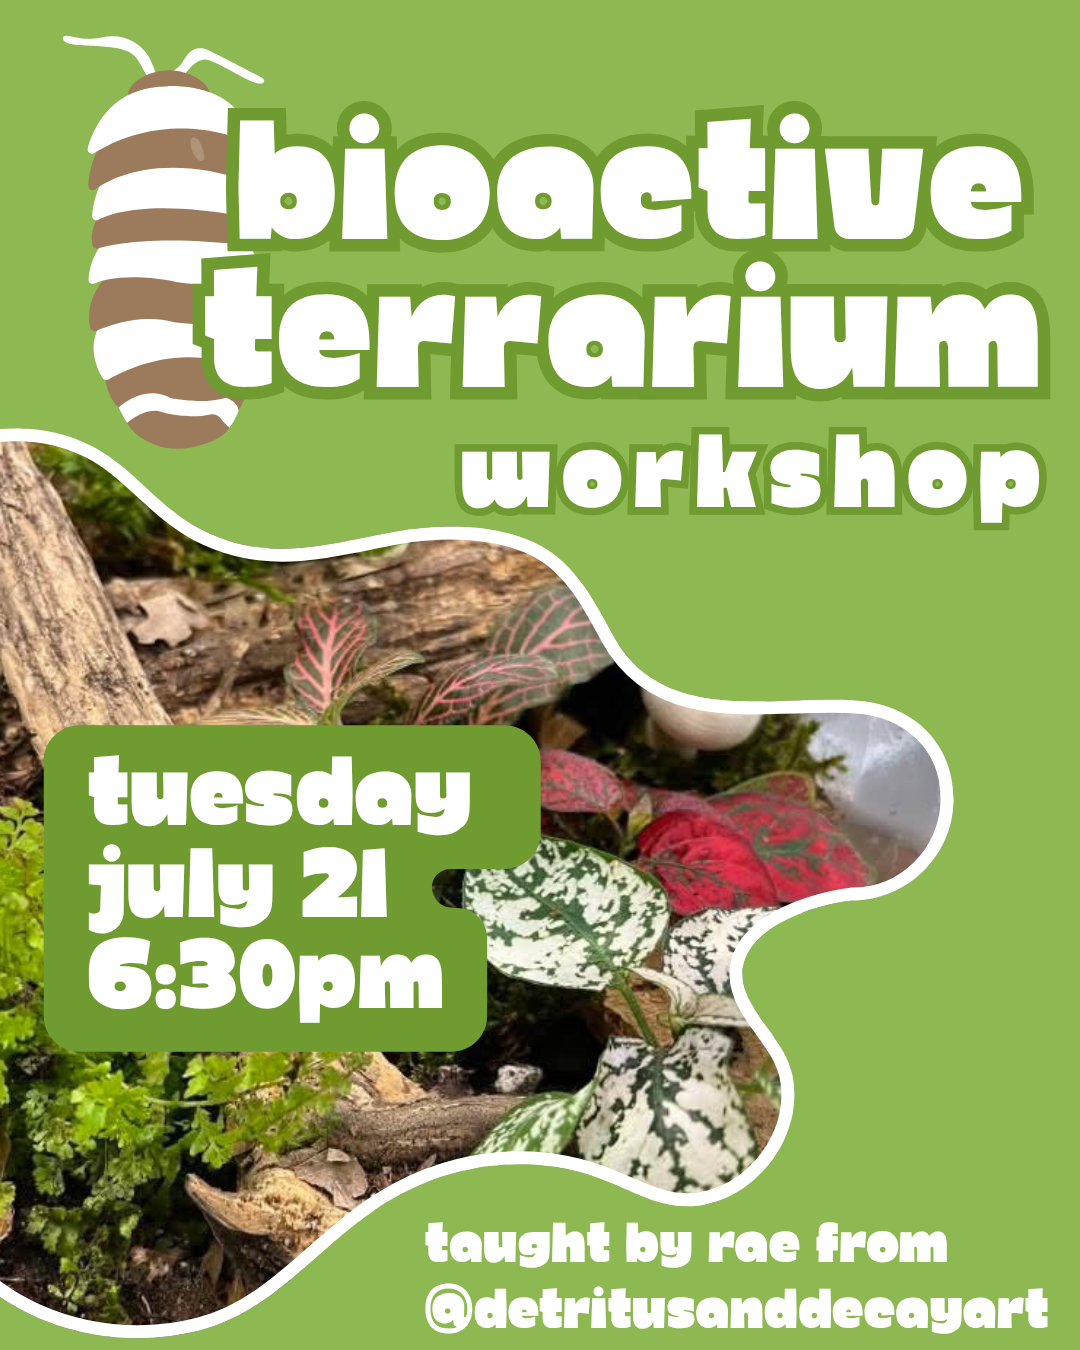
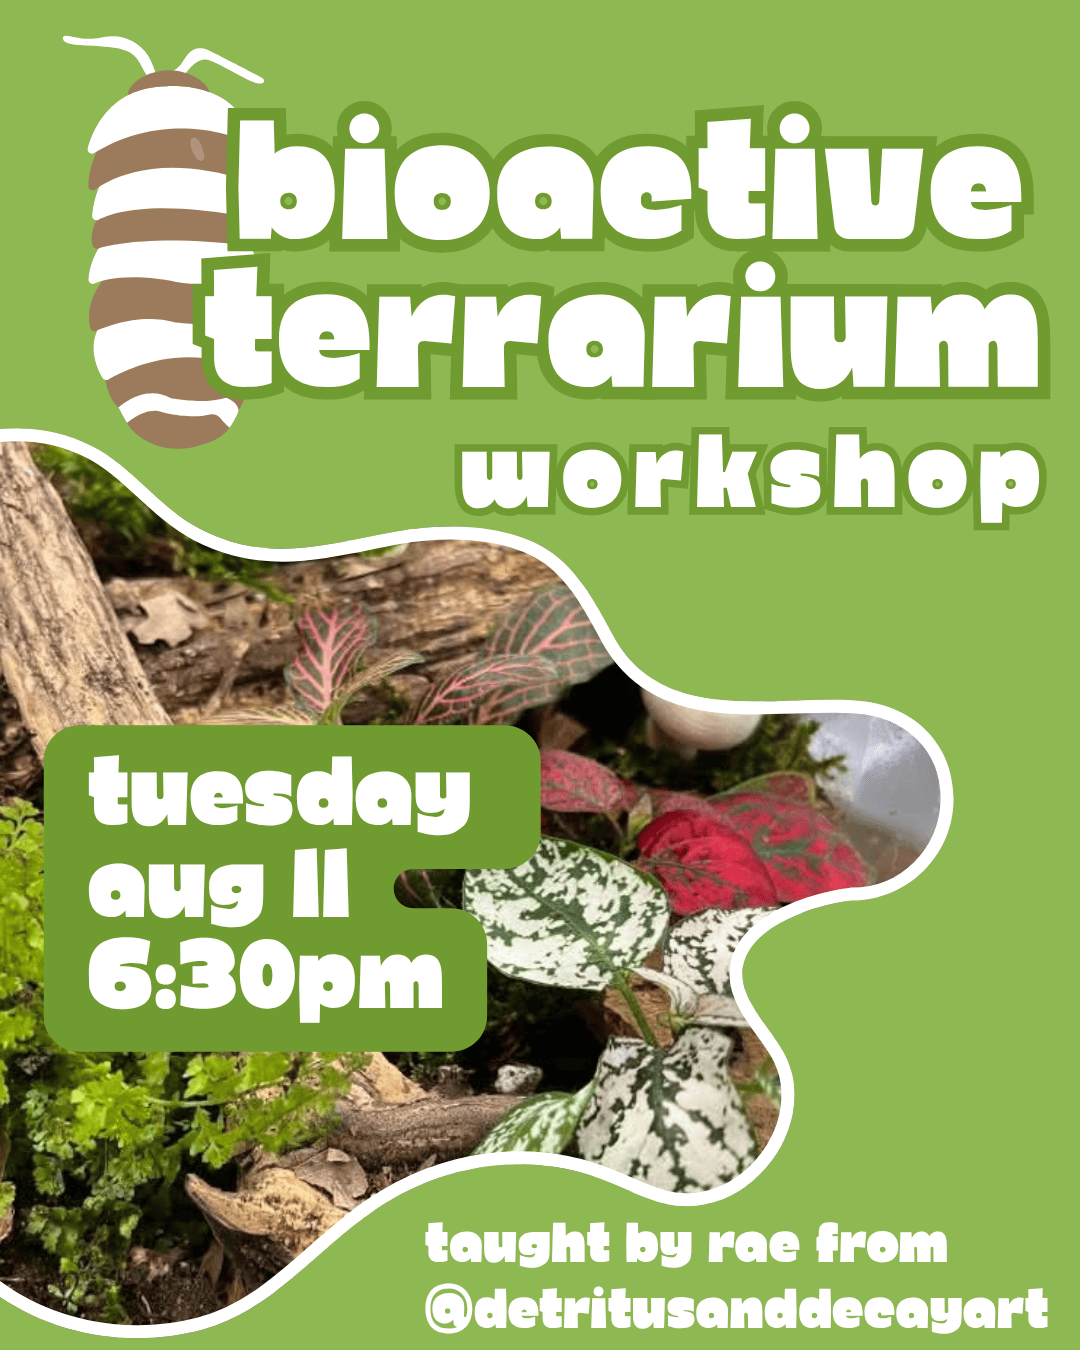
adds bioactive and prism, as well as new clipping swap

Changed region(s): [[0.0611, 0.6222, 0.4278, 0.7156]]

diff --git a/index.html b/index.html
@@ -13,7 +13,7 @@
     <header class="site-header">
       <nav>
         <ul>
-          <li><a href="#news">News</a></li>
+          <li><a href="#events">Events</a></li>
           <li><a href="#services">Services</a></li>
           <li><a href="#hoursAndLocation">Contact</a></li>
           <li><a href="http://perchplants.bigcartel.com">Perch Merch</a></li>
@@ -47,6 +47,119 @@
           </a>
         </div>
         <img src="./img/hats.jpg" alt="Perch hats" class="hatsNewsImage" />
+      </section>
+
+      <section id="events" aria-labelledby="eventsTitle">
+        <h2 id="eventsTitle" class="sectionHeader">Events at Perch</h2>
+        <div class="eventGroup">
+          <article class="event">
+            <div class="eventHeader">
+              <img src="./img/bioactive.png" alt="Bioactive Terrarium Workshop flyer" class="eventFlyer" />
+              <div class="eventTitle">
+                <h3>Bioactive Terrarium Workshop</h3>
+                <p class="eventDate">Tuesday 8/11 @ 6:30PM</p>
+              </div>
+            </div>
+            <div class="eventDescription">
+              <p class="eventDescriptionText">
+                Taught by Rae from <strong>Detritus &amp; Decay Art (<a href="https://www.instagram.com/detritusanddecayart">@detritusanddecayart</a>)</strong>. Build your own miniature tropical ecosystem with a clean-up crew of isopods &amp; springtails.
+              </p>
+              <div class="eventDescriptionText">
+                <p>In this workshop you will learn:</p>
+                <ul class="eventListText">
+                  <li>Techniques of soil layering</li>
+                  <li>Terrarium plant choice (2–3 plants provided)</li>
+                  <li>Watering methods</li>
+                  <li>Best placement for your vessel</li>
+                  <li>Plant care &amp; tips</li>
+                  <li>Springtail &amp; isopod care info</li>
+                </ul>
+              </div>
+              <p class="eventDescriptionText">
+                Use a provided glass container or bring your own closed glass container (around 1 gallon, with a lid, and can fit your hand inside).
+              </p>
+              <p class="eventDescriptionText">
+                Feel free to bring your own decor items such as crystals, stones, or figurines!
+              </p>
+              <div class="eventDescriptionText">
+                <p><strong>BYO Glass Vessel Option:</strong> $45</p>
+                <p><strong>All Materials Provided Option:</strong> $55</p>
+              </div>
+              <a href="https://buy.stripe.com/8x29AS6VB4bJeyUfzh9IQ0I">
+                <button class="signUpBtn">BYO Glass Vessel: $45</button>
+              </a>
+              <a href="https://buy.stripe.com/dRmfZg1Bh5fNcqMdr99IQ0H">
+                <button class="signUpBtn">All Materials Provided: $55</button>
+              </a>
+            </div>
+          </article>
+
+          <article class="event">
+            <div class="eventHeader">
+              <img src="./img/prism.png" alt="Prism Portrait Pop-up flyer" class="eventFlyer" />
+              <div class="eventTitle">
+                <h3>Prism Portrait Pop-up!</h3>
+                <p class="eventSubTitle"><em>Hosted by Prism Portal + Perch</em></p>
+                <p class="eventDate">Saturday 8/15 @ 6:00PM &amp; 8:00PM</p>
+                <p class="eventHeaderImportant">
+                  The event will be divided into two separate sessions.<br />
+                  Group 1: 6pm (limited to 4 people)<br />
+                  Group 2: 8pm (limited to 4–5 people)<br /><br />
+                  After you sign up, please e-mail <a href="mailto:hi@perchplants.com">hi@perchplants.com</a> to specify which time you prefer.
+                </p>
+              </div>
+            </div>
+            <div class="eventDescription">
+              <p class="eventDescriptionText">
+                <strong>What is a Prism Portrait?</strong><br />
+                It is an intuitive portrait experience where we combine card pulling and experimental photography techniques to create unique portraits for every individual. The hues used in your photo reflect the colors revealed during your card pull! You will leave the experience with a mini Polaroid and two ritual cards explaining the color magick behind the colors you unveiled. Three digital files will be sent to your email the following day.
+              </p>
+              <div class="eventDescriptionText">
+                <p>What's Included:</p>
+                <ul class="eventListText">
+                  <li>Mini card pull &amp; reading</li>
+                  <li>5 minute intuitive portrait experience</li>
+                  <li>1 Polaroid</li>
+                  <li>3 digital files</li>
+                  <li>2 ritual cards</li>
+                  <li>Make-your-own suncatcher</li>
+                  <li>Mocktails, cocktails &amp; snacks</li>
+                </ul>
+              </div>
+              <p class="eventDescriptionText"><strong>Make-your-own plant suncatcher to reflect your color pull!</strong></p>
+              <p class="eventDescriptionText">
+                After you pull your color cards, build a suncatcher with wire, colorful beads, and a prism to stick in your favorite plant!
+              </p>
+              <a href="https://buy.stripe.com/14A5kC6VB23B2Qc3Qz9IQ0z">
+                <button class="signUpBtn">Sign up!</button>
+              </a>
+            </div>
+          </article>
+
+          <article class="event">
+            <div class="eventHeader">
+              <img src="./img/clippingswap.png" alt="Clipping Swap flyer" class="eventFlyer" />
+              <div class="eventTitle">
+                <h3>Clipping Swap</h3>
+                <p class="eventDate">Thursday 8/20 @ 7:00–8:30PM</p>
+              </div>
+            </div>
+            <div class="eventDescription">
+              <p class="eventDescriptionText">Free event. Bring 1–3 clippings.</p>
+              <p class="eventDescriptionText">All plant enthusiast levels welcome.</p>
+              <div class="eventDescriptionText">
+                <ul class="eventListText">
+                  <li>Make sure that your plant appears pest free and healthy before you take a clipping.</li>
+                  <li>Transport your clipping in water or wrap the end in a wet paper towel.</li>
+                  <li>Drop your clipping off on the clipping table and swap it for a new one.</li>
+                  <li>Hang out in Perch and make new plant friends!</li>
+                  <li>Casual come &amp; go. Anytime between 7:00–8:30PM!</li>
+                </ul>
+              </div>
+              <p class="eventDescriptionText">All items at Perch are 10% off on the night of the swap!</p>
+            </div>
+          </article>
+        </div>
       </section>
 
       <section id="fanClub">

diff --git a/styles.css b/styles.css
@@ -330,6 +330,19 @@ nav ul li a {
   font-size: 2rem;
 }
 
+.eventHeaderImportant {
+  background: var(--sun);
+  border: 0.4rem solid var(--ink);
+  box-shadow: 0.6rem 0.6rem 0 var(--ink);
+  color: var(--ink);
+  font-family: var(--body);
+  font-size: clamp(1.5rem, 1.8vw, 2rem);
+  font-weight: 600;
+  line-height: 1.4;
+  padding: 1.1rem 1.4rem;
+  text-align: left;
+}
+
 .eventListText {
   font-size: 2rem;
   margin-bottom: 1rem;
